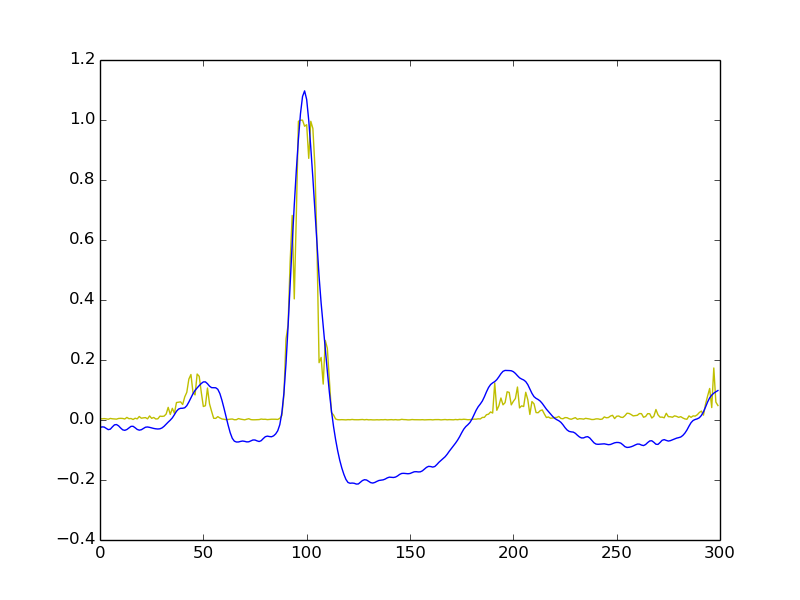
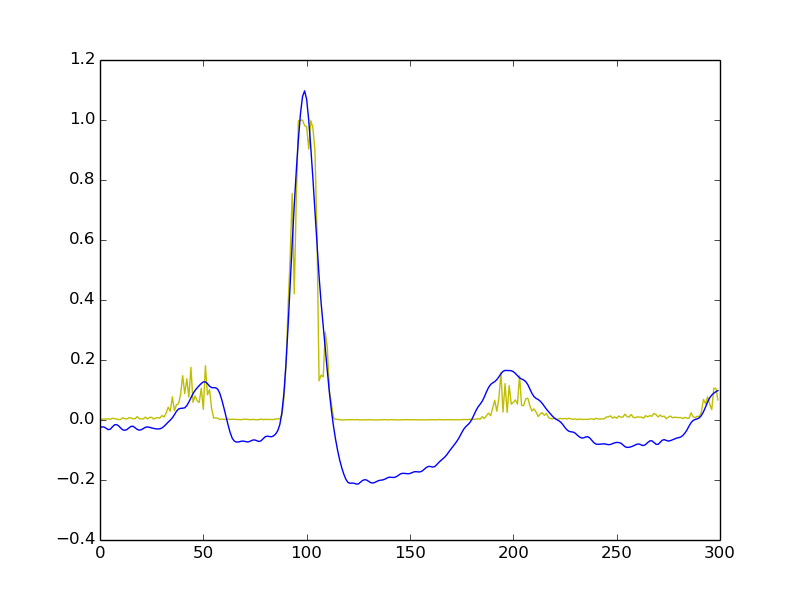
500 hidden 100 epochs

diff --git a/dA.py b/dA.py
@@ -327,7 +327,7 @@ def test_dA(learning_rate=0.001, training_epochs=100,
         theano_rng=theano_rng,
         input=x,
         n_visible=300,
-        n_hidden=400
+        n_hidden=500
     ) 
 
     cost, updates = da.get_cost_updates(
